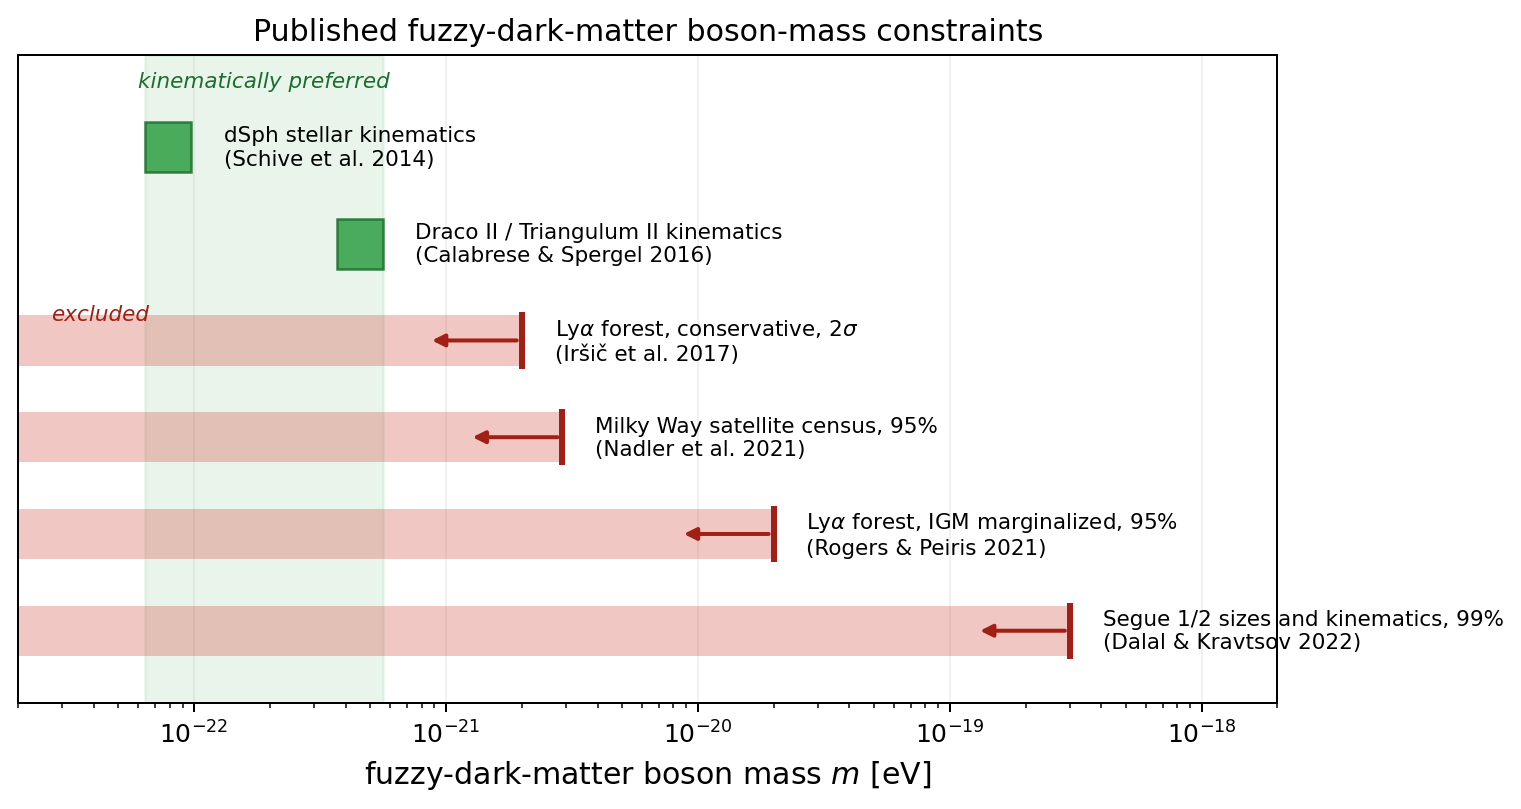
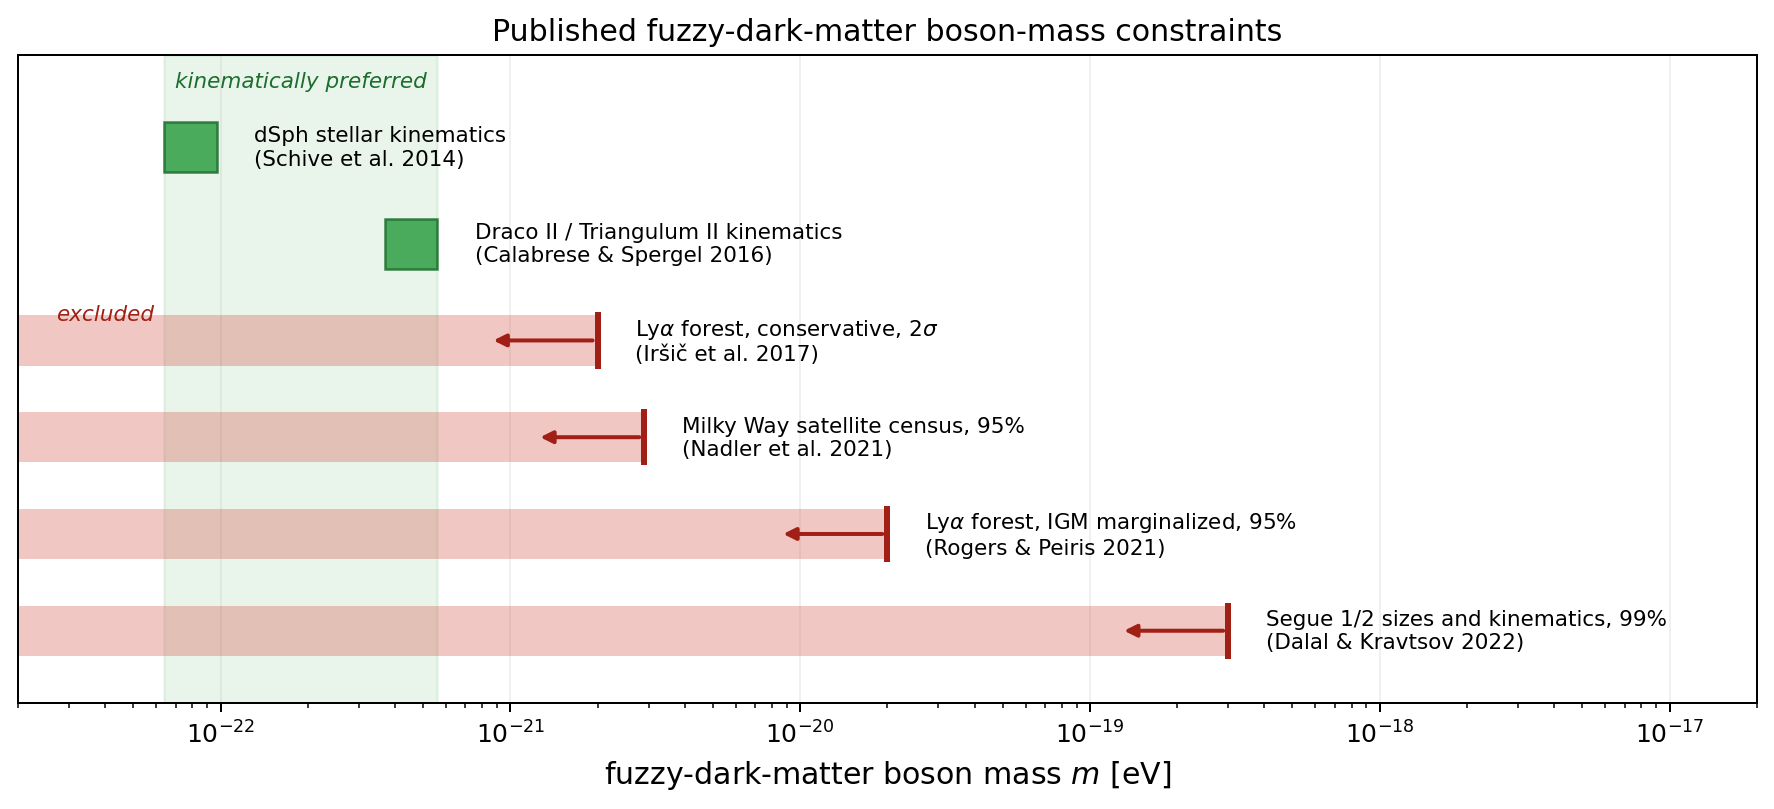
Add the S/N-limited redshift subsection for the SN Ia twin U/NUV photometry with its ETC calculation; widen the FDM constraint ladder to 2e-17 eV

diff --git a/make_snia_uvnuv_zlimit.py b/make_snia_uvnuv_zlimit.py
@@ -1,0 +1,132 @@
+#!/usr/bin/env python3
+"""S/N-limited redshift of the SN Ia rest-frame U and NUV filter magnitudes
+(Figure fig:snuvlimit).
+
+The optical-twin diagnostic is a rest-frame U/NUV magnitude difference, the
+NUV-red and NUV-blue subgroups of Milne et al. (2015) being offset by ~0.4 mag
+in NUV-optical colour while the optical light curves match. Separating the two
+subgroups for a single supernova at 4 sigma therefore needs sigma_m ~ 0.1 mag
+in the NUV band (the optical side is far brighter), i.e. S/N = 2.5/(ln10 x
+0.1) ~ 11, and using Delta NUV as a continuous standardization covariate at
+the sigma <~ 0.08 mag Hubble-residual target needs sigma_m ~ 0.05 mag, i.e.
+S/N ~ 22.
+
+Synthetic rest-frame top-hat bands U 3300-3900 A and NUV 2500-3040 A (centre
+2770 A, the diagnostic wavelength used throughout the proposal) are redshifted
+with the source, and the magnitude is measured by binning the multi-roll
+slitless spectrum over the redshifted band. The S/N follows the exposure-time
+calculator's slitless budget, the source counts under the binned band against
+the dispersed zodiacal+cirrus+thermal sky of the 4000 A band-limiting filter,
+detector dark current, and read noise, with the Nugent SN Ia peak template
+normalised to M_B = -19.3. The NUV band is fully inside the 0.36 micron blue
+edge for z >= 0.44 and the U band for z >= 0.09.
+"""
+import numpy as np
+import matplotlib
+matplotlib.use("Agg")
+import matplotlib.pyplot as plt
+import slitless_etc as etc
+import galaxy_etc as g
+
+HR = 3600.0
+MB = -19.3
+d = np.loadtxt("sn_templates/SNIa_peak.dat")
+SNIA = dict(wl=d[:, 0], flam=d[:, 1], desc="SN Ia peak (Nugent)")
+CFG = etc.realistic_cfg(diameter_cm=350.0, obstruction=0.15, pix_scale=0.11, R=1000.0)
+FILT_W = 4000.0                       # band-limiting filter width [A], ETC default
+
+BANDS = [
+    ("rest $U$ (3300--3900Å)", 3300.0, 3900.0, "#2a6cb5"),
+    ("rest NUV (2500--3040Å)", 2500.0, 3040.0, "#7d3c98"),
+]
+# sigma_m targets: 0.10 mag separates the 0.4 mag NUV-red/blue offset at 4 sigma,
+# 0.05 mag supports the Delta NUV standardization covariate
+TARGETS = [(0.10, "-"), (0.05, "--")]
+EXPOSURES = [2.0, 10.0, 30.0]         # planning exposures [hr], three rolls combined
+
+
+def slitless_band_snr(mag_ab, lam1, lam2, t_s):
+    """S/N of a synthetic-filter magnitude binned from the slitless spectrum.
+
+    Same budget as slitless_etc.line_sn, with the signal integrated over the
+    synthetic band [lam1, lam2] and the dispersed sky of the band-limiting
+    filter collected by every pixel under the bin.
+    """
+    lamc = 0.5 * (lam1 + lam2)
+    band = (max(CFG.band_min_A, lamc - FILT_W / 2),
+            min(CFG.band_max_A, lamc + FILT_W / 2))
+    teff = t_s * (CFG.cr_exposure_efficiency() if CFG.include_cr else 1.0)
+    flam = etc.ab_to_flambda(mag_ab, lamc)
+    S = (flam * CFG.area_cm2 * CFG.throughput(lamc) * etc._photon_factor(lamc)
+         * (lam2 - lam1) * teff * CFG.extraction_eff)
+    Bpix = etc.background_per_pixel(CFG, band)
+    theta = CFG.psf_fwhm(lamc)
+    n_spatial = max(1.0, theta / CFG.pix_scale)
+    n_spectral = (lam2 - lam1) / CFG.dispersion_A_per_pix(lamc)
+    npix = n_spatial * n_spectral
+    _, dark = CFG.detector_at(lamc)
+    var = (S + (Bpix + dark) * npix * teff
+           + npix * CFG.n_reads(t_s) * CFG.read_noise_eff(lamc) ** 2
+           + (CFG.flat_error * S) ** 2)
+    return float(S / np.sqrt(var))
+
+
+def zmin_inband(l1_rest):
+    return CFG.band_min_A / l1_rest - 1.0
+
+
+fig, axes = plt.subplots(1, 2, figsize=(11.2, 4.8), dpi=180, sharey=True)
+summary = {}
+for ax, (label, l1, l2, col) in zip(axes, BANDS):
+    z0 = max(0.10, np.ceil(zmin_inband(l1) * 100) / 100)
+    zz = np.linspace(z0, 2.6, 70)
+    for sig, ls in TARGETS:
+        snr = 2.5 / (np.log(10.0) * sig)
+        tt = []
+        for z in zz:
+            lo1, lo2 = l1 * (1 + z), l2 * (1 + z)
+            m = g.app_mag(SNIA, z, 0.5 * (lo1 + lo2), lo2 - lo1,
+                          M_abs=MB, ref_lam=4400.0, ref_width=1000.0)
+            tt.append(etc.exposure_for_snr(
+                lambda t: slitless_band_snr(m, lo1, lo2, t), snr) / HR)
+        tt = np.array(tt)
+        ax.plot(zz, tt, color=col, ls=ls, lw=2.2,
+                label=rf"$\sigma_m={sig:.2f}$ mag (S/N$\,\simeq\,${snr:.0f})")
+        for thr in EXPOSURES:
+            zc = np.interp(np.log(thr), np.log(tt), zz)
+            summary[(label, sig, thr)] = (zc, np.interp(zc, zz, tt))
+    for thr, tcol in zip(EXPOSURES, ("#1f7a4d", "#d68f1f", "#c0392b")):
+        ax.axhline(thr, color=tcol, lw=1.0, ls=":")
+        ax.text(2.26, thr * 1.12, f"{thr:.0f} hr", color=tcol, fontsize=8.5,
+                ha="right", va="bottom")
+    ax.set_yscale("log")
+    ax.set_xlim(0.0, 2.3)
+    ax.set_ylim(0.02, 300)
+    ax.set_xlabel("redshift $z$", fontsize=12)
+    ax.set_title(label, fontsize=11)
+    ax.grid(alpha=0.25, which="both", lw=0.5)
+    ax.legend(fontsize=9, loc="upper left")
+    ax.axvline(zmin_inband(l1), color="0.5", lw=1.0, ls="--")
+    ax.text(zmin_inband(l1) + 0.03, 0.025, "band fully\nabove 0.36$\\mu$m",
+            fontsize=8, color="0.4", va="bottom")
+axes[0].set_ylabel("exposure for a peak SN Ia [hr]", fontsize=12)
+fig.suptitle("S/N-limited reach of the rest-frame $U$ and NUV twin photometry "
+             "(binned multi-roll slitless spectra, $M_B=-19.3$)", fontsize=12)
+fig.tight_layout(rect=(0, 0, 1, 0.95))
+fig.savefig("snia_uvnuv_zlimit.png", bbox_inches="tight")
+print("wrote snia_uvnuv_zlimit.png\n")
+
+for (label, sig, thr), (zc, _) in sorted(summary.items(), key=str):
+    print(f"{label:26s} sigma={sig:.2f}  {thr:5.1f} hr  ->  z_lim = {zc:.2f}")
+
+print("\nobserved synthetic-band AB at selected z:")
+for label, l1, l2, _ in BANDS:
+    for z in (0.5, 0.8, 1.0, 1.2, 1.5):
+        if l1 * (1 + z) < CFG.band_min_A:
+            continue
+        lo1, lo2 = l1 * (1 + z), l2 * (1 + z)
+        m = g.app_mag(SNIA, z, 0.5 * (lo1 + lo2), lo2 - lo1,
+                      M_abs=MB, ref_lam=4400.0, ref_width=1000.0)
+        s2 = slitless_band_snr(m, lo1, lo2, 2 * HR)
+        s10 = slitless_band_snr(m, lo1, lo2, 10 * HR)
+        print(f"  {label:26s} z={z:.1f}  AB={m:5.2f}  S/N(2hr)={s2:6.1f}  S/N(10hr)={s10:6.1f}")

diff --git a/docs/cosmology_35m_R1000_proposal.tex b/docs/cosmology_35m_R1000_proposal.tex
@@ -1454,6 +1454,19 @@ An independent first-principles check with the exposure-time calculator confirms
 \label{fig:sniamuv}
 \end{figure}
 
+\subsubsection{The S/N-Limited Redshift of the Twin \texorpdfstring{$U$}{U} and NUV Photometry}
+
+The $5\sigma$ detection reach of Figure~\ref{fig:sniamuv} is not the right requirement for the twin program, because the twin diagnostic is a magnitude rather than a detection. The NUV-red and NUV-blue subgroups are offset by $\sim0.4$\,mag in NUV$-$optical colour at matched optical light curves \cite{milne2015}, and the optical side of that colour comes essentially free since the optical bands are one to two magnitudes brighter, so the colour error is the NUV magnitude error. Assigning a single supernova to a subgroup with the $0.4$\,mag offset resolved at $4\sigma$ therefore requires $\sigma_m\simeq0.10$\,mag in the rest-frame band, which through $\sigma_m=2.5/(\ln 10\cdot {\rm S/N})$ means ${\rm S/N}\simeq11$, and using $\Delta{\rm NUV}$ as the continuous standardization covariate of Eq.~\eqref{eq:nuvstd} at the $\sigma\lesssim0.08$\,mag Hubble-residual target requires $\sigma_m\simeq0.05$\,mag, or ${\rm S/N}\simeq22$.
+
+Figure~\ref{fig:snuvlimit} computes where those thresholds are met, using the exposure-time calculator in its slitless mode with the Nugent peak template at $M_B=-19.3$. Synthetic rest-frame top-hat filters, $U$ at $3300$--$3900$\,\AA\ and NUV at $2500$--$3040$\,\AA\ around the $2770$\,\AA\ diagnostic wavelength, are redshifted with the source, and the filter magnitude is measured by binning the multi-roll slitless spectrum over the redshifted band, with the dispersed zodiacal, cirrus, and thermal sky of the band-limiting filter, dark current, and read noise carried in the budget. The NUV filter clears the $0.36\,\mu$m blue edge completely at $z\geq0.44$ and the $U$ filter already at $z\geq0.09$, so the $U$ magnitude bridges the low-redshift range where the NUV is not yet in band. At the $2$\,hr classification depth the subgroup assignment ($\sigma_m=0.10$) holds to $z\simeq0.86$ in the NUV and $z\simeq1.06$ in $U$, while covariate-grade photometry ($\sigma_m=0.05$) holds to $z\simeq0.55$ and $0.75$ respectively. The $10$\,hr tier extends subgroup assignment to $z\simeq1.28$ (NUV) and $1.54$ ($U$) and covariate-grade measurement to $z\simeq0.90$ and $1.12$, and $30$\,hr stacks reach $z\simeq1.71$ in the NUV. The flattening of the $U$ curves near $z\simeq1.8$ marks the band crossing the $1\,\mu$m dichroic onto the near-infrared arm, where the zodiacal sky is darkest. The S/N-limited redshift of the twin photometry therefore sits at $z\simeq0.9$--$1.3$ for the survey's standard exposures, squarely covering the $0.5\lesssim z\lesssim1.5$ range where the time-domain tier classifies its supernovae, and the covariate-grade half of each tier is exactly the ``brighter, lower-redshift half'' anticipated in the observing strategy above.
+
+\begin{figure}[tp]
+\centering
+\includegraphics[width=\textwidth]{snia_uvnuv_zlimit.png}
+\caption{The S/N-limited redshift of the SN Ia rest-frame $U$ (left) and NUV (right) filter photometry, computed with the slitless mode of the exposure-time calculator for a peak normal SN Ia ($M_B=-19.3$, Nugent template). Each curve gives the exposure at which the synthetic filter magnitude, binned from the multi-roll slitless spectrum over the redshifted band, reaches $\sigma_m=0.10$\,mag (solid, the $4\sigma$ assignment of one supernova to the NUV-red or NUV-blue subgroup separated by $\sim0.4$\,mag \cite{milne2015}) and $\sigma_m=0.05$\,mag (dashed, covariate-grade photometry for Eq.~\eqref{eq:nuvstd}). Dotted horizontal lines mark the $2$, $10$, and $30$\,hr planning exposures of the time-domain program, and the vertical dashed line marks where each rest-frame filter clears the $0.36\,\mu$m blue edge. Subgroup classification reaches $z\simeq0.86$ (NUV) and $1.06$ ($U$) in the $2$\,hr visits and $z\simeq1.28$ and $1.54$ in $10$\,hr, covering the working redshift range of the supernova program.}
+\label{fig:snuvlimit}
+\end{figure}
+
 \subsubsection{Cosmological Payoff: \texorpdfstring{$H_0$}{H0} Tension and Dynamic Dark Energy}
 
 The motivation for a physically refined standardization is the precision now demanded by the two leading cosmological questions, both of which the SN Ia Hubble diagram addresses (Figure~\ref{fig:sniacosmo}). The first is the Hubble tension, the $\sim5\sigma$ discrepancy between the local determination ($H_0=73.0\pm1.0$\,\kms\,Mpc$^{-1}$, SH0ES \cite{riess2022}) and the CMB-inferred value ($67.4\pm0.5$\,\kms\,Mpc$^{-1}$, Planck \cite{planck2018}), a split now reproduced across many independent methods (Figure~\ref{fig:h0tension}). A significant share of the local error budget originates in the SN Ia standardization step. If NUV-red/NUV-blue subclasses with different luminosities are mixed in unequal proportions between the calibrator and Hubble-flow samples, $H_0$ is biased. A subclass-homogeneous, $\theta_{\rm Fe}$-aware ladder built from rest-NUV spectroscopy quantifies and removes this term, providing a cleaner local distance scale.

diff --git a/make_fdm_constraints.py b/make_fdm_constraints.py
@@ -18,7 +18,7 @@ import matplotlib
 matplotlib.use("Agg")
 import matplotlib.pyplot as plt
 
-XMIN, XMAX = 2e-23, 2e-18
+XMIN, XMAX = 2e-23, 2e-17
 
 PREFERRED = [
     ("dSph stellar kinematics\n(Schive et al. 2014)", 6.4e-23, 9.7e-23),
@@ -34,7 +34,7 @@ EXCLUDED = [
 rows = PREFERRED + EXCLUDED
 ny = len(rows)
 
-fig, ax = plt.subplots(figsize=(8.6, 4.6), dpi=180)
+fig, ax = plt.subplots(figsize=(10.0, 4.6), dpi=180)
 
 # kinematically preferred region carried down the whole chart
 ax.axvspan(6.4e-23, 5.6e-22, color="#2f9e44", alpha=0.10, zorder=0)